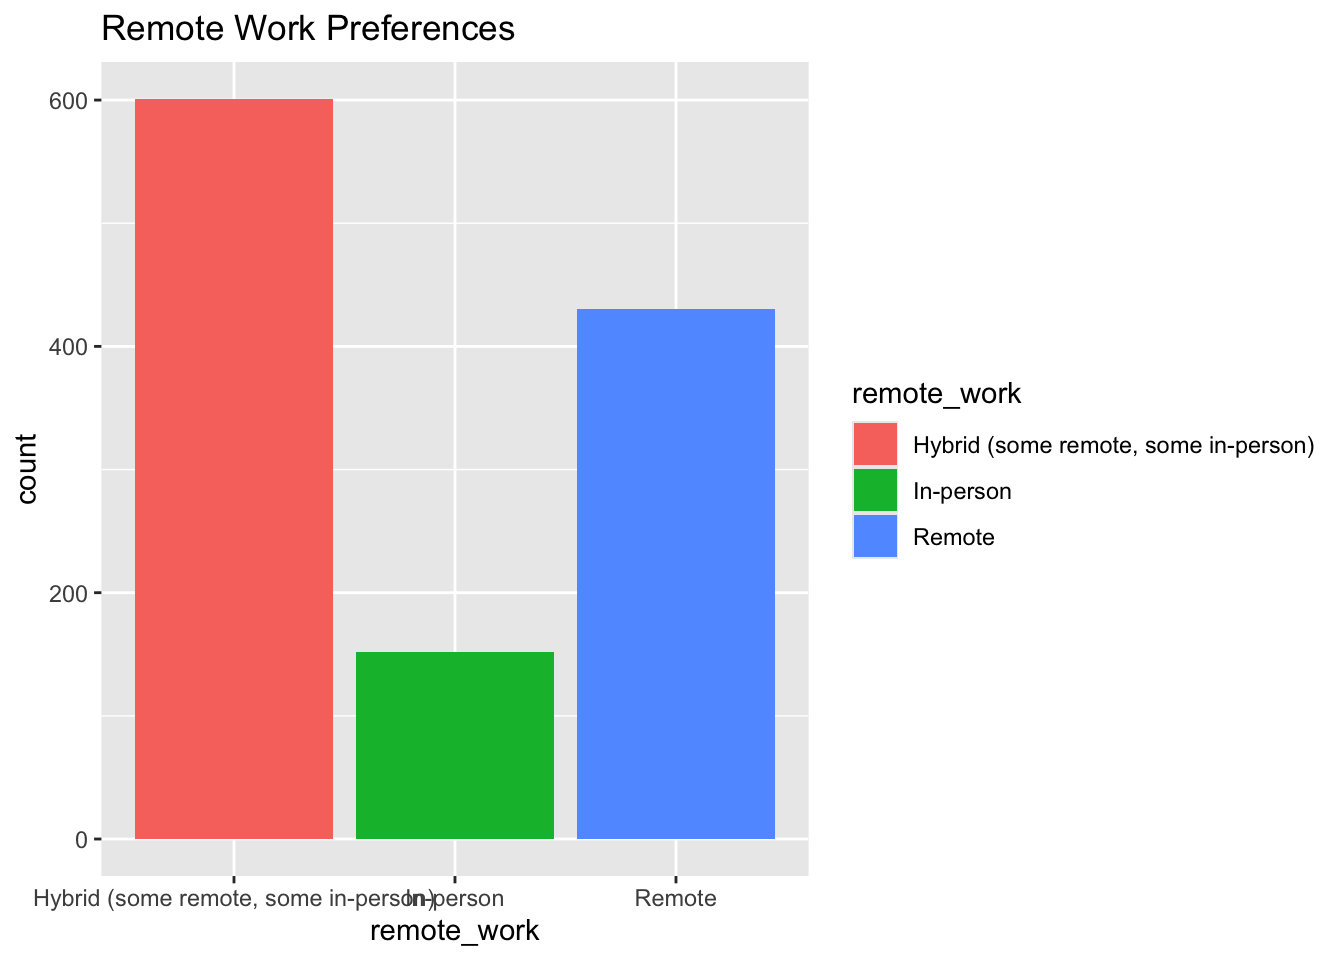
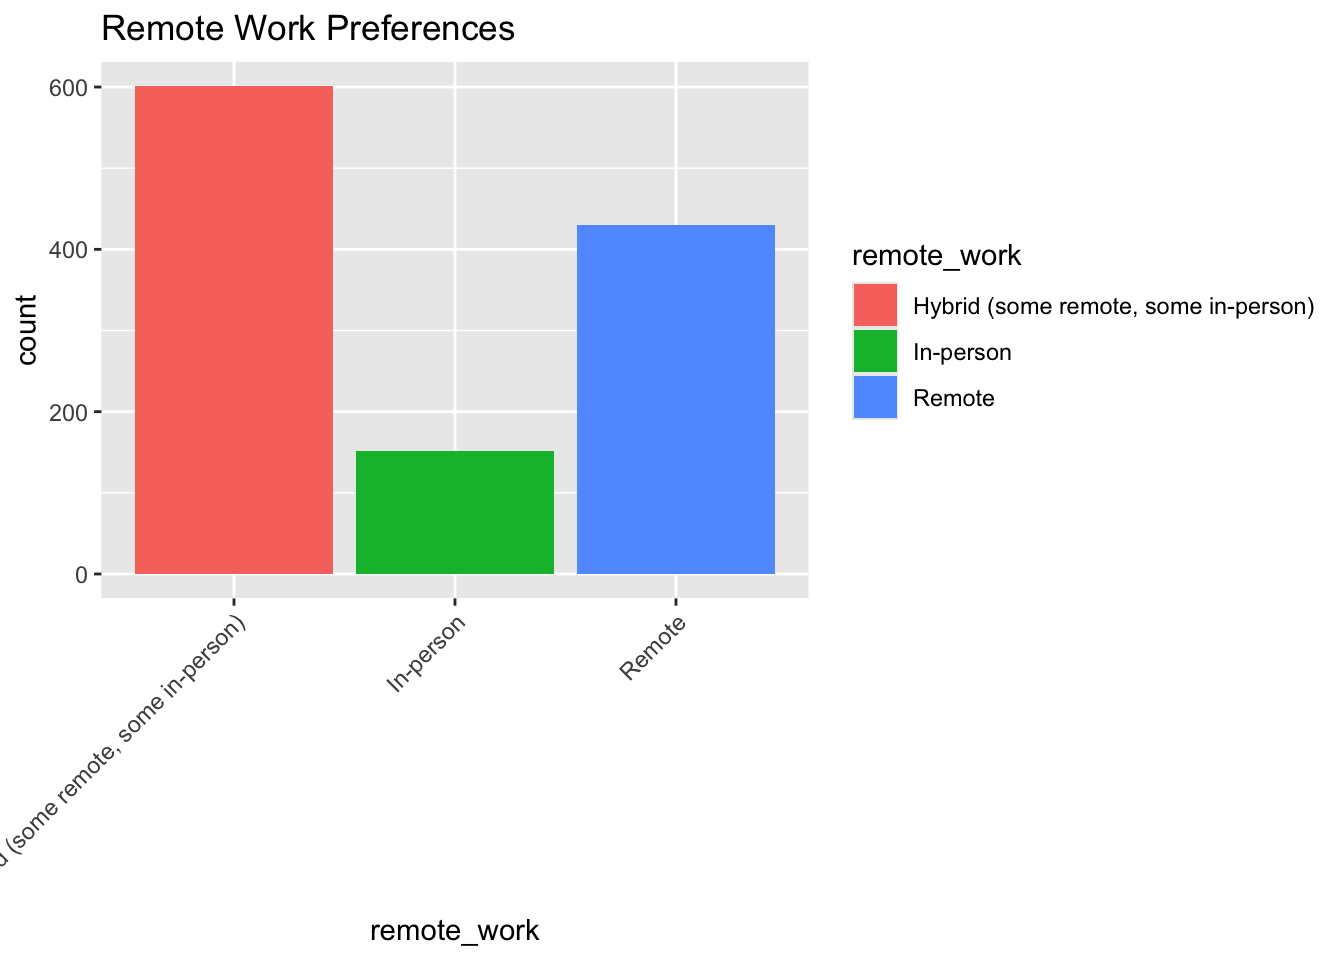
Updates to fix bar chart formatting

diff --git a/day1_exercise_answers.html b/day1_exercise_answers.html
@@ -460,7 +460,8 @@ $ survey_completion_date     &lt;date&gt; 2023-05-02, 2023-05-05, 2023-05-13, 20
 <div class="sourceCode cell-code" id="cb22"><pre class="sourceCode r code-with-copy"><code class="sourceCode r"><span id="cb22-1"><a href="#cb22-1" aria-hidden="true" tabindex="-1"></a><span class="co"># Bar chart of remote work preferences</span></span>
 <span id="cb22-2"><a href="#cb22-2" aria-hidden="true" tabindex="-1"></a><span class="fu">ggplot</span>(data_dev_survey, <span class="fu">aes</span>(<span class="at">x =</span> remote_work, <span class="at">fill =</span> remote_work)) <span class="sc">+</span></span>
 <span id="cb22-3"><a href="#cb22-3" aria-hidden="true" tabindex="-1"></a>  <span class="fu">geom_bar</span>() <span class="sc">+</span></span>
-<span id="cb22-4"><a href="#cb22-4" aria-hidden="true" tabindex="-1"></a>  <span class="fu">labs</span>(<span class="at">title =</span> <span class="st">"Remote Work Preferences"</span>)</span></code><button title="Copy to Clipboard" class="code-copy-button"><i class="bi"></i></button></pre></div>
+<span id="cb22-4"><a href="#cb22-4" aria-hidden="true" tabindex="-1"></a>  <span class="fu">labs</span>(<span class="at">title =</span> <span class="st">"Remote Work Preferences"</span>) <span class="sc">+</span></span>
+<span id="cb22-5"><a href="#cb22-5" aria-hidden="true" tabindex="-1"></a>  <span class="fu">theme</span>(<span class="at">axis.text.x =</span> <span class="fu">element_text</span>(<span class="at">angle =</span> <span class="dv">45</span>, <span class="at">hjust =</span> <span class="dv">1</span>))</span></code><button title="Copy to Clipboard" class="code-copy-button"><i class="bi"></i></button></pre></div>
 <div class="cell-output-display">
 <div>
 <figure class="figure">
@@ -569,17 +570,18 @@ $ survey_completion_date     &lt;date&gt; 2023-05-02, 2023-05-05, 2023-05-13, 20
 <section id="grouping-data-with-group_by" class="level3">
 <h3 class="anchored" data-anchor-id="grouping-data-with-group_by">21. Grouping Data with <code>group_by()</code></h3>
 <div class="cell">
-<div class="sourceCode cell-code" id="cb29"><pre class="sourceCode r code-with-copy"><code class="sourceCode r"><span id="cb29-1"><a href="#cb29-1" aria-hidden="true" tabindex="-1"></a><span class="fu">library</span>(knitr)</span>
-<span id="cb29-2"><a href="#cb29-2" aria-hidden="true" tabindex="-1"></a></span>
-<span id="cb29-3"><a href="#cb29-3" aria-hidden="true" tabindex="-1"></a><span class="co"># Group by remote_work and summarize the average salary </span></span>
-<span id="cb29-4"><a href="#cb29-4" aria-hidden="true" tabindex="-1"></a><span class="co"># and standard deviation of salary</span></span>
-<span id="cb29-5"><a href="#cb29-5" aria-hidden="true" tabindex="-1"></a>salary_by_remoteness <span class="ot">&lt;-</span> data_dev_survey <span class="sc">|&gt;</span> </span>
-<span id="cb29-6"><a href="#cb29-6" aria-hidden="true" tabindex="-1"></a>  <span class="fu">group_by</span>(remote_work) <span class="sc">|&gt;</span> </span>
-<span id="cb29-7"><a href="#cb29-7" aria-hidden="true" tabindex="-1"></a>  <span class="fu">summarize</span>(</span>
-<span id="cb29-8"><a href="#cb29-8" aria-hidden="true" tabindex="-1"></a>    <span class="at">avg_salary =</span> <span class="fu">mean</span>(converted_comp_yearly, <span class="at">na.rm =</span> <span class="cn">TRUE</span>),</span>
-<span id="cb29-9"><a href="#cb29-9" aria-hidden="true" tabindex="-1"></a>    <span class="at">std_salary =</span> <span class="fu">sd</span>(converted_comp_yearly, <span class="at">na.rm =</span> <span class="cn">TRUE</span>)</span>
-<span id="cb29-10"><a href="#cb29-10" aria-hidden="true" tabindex="-1"></a>  )</span>
-<span id="cb29-11"><a href="#cb29-11" aria-hidden="true" tabindex="-1"></a><span class="fu">kable</span>(salary_by_remoteness)</span></code><button title="Copy to Clipboard" class="code-copy-button"><i class="bi"></i></button></pre></div>
+<div class="sourceCode cell-code" id="cb29"><pre class="sourceCode r code-with-copy"><code class="sourceCode r"><span id="cb29-1"><a href="#cb29-1" aria-hidden="true" tabindex="-1"></a><span class="co"># Use kable() on your summarized data to make it look nice</span></span>
+<span id="cb29-2"><a href="#cb29-2" aria-hidden="true" tabindex="-1"></a><span class="fu">library</span>(knitr)</span>
+<span id="cb29-3"><a href="#cb29-3" aria-hidden="true" tabindex="-1"></a></span>
+<span id="cb29-4"><a href="#cb29-4" aria-hidden="true" tabindex="-1"></a><span class="co"># Group by remote_work and summarize the average salary </span></span>
+<span id="cb29-5"><a href="#cb29-5" aria-hidden="true" tabindex="-1"></a><span class="co"># and standard deviation of salary</span></span>
+<span id="cb29-6"><a href="#cb29-6" aria-hidden="true" tabindex="-1"></a>salary_by_remoteness <span class="ot">&lt;-</span> data_dev_survey <span class="sc">|&gt;</span> </span>
+<span id="cb29-7"><a href="#cb29-7" aria-hidden="true" tabindex="-1"></a>  <span class="fu">group_by</span>(remote_work) <span class="sc">|&gt;</span> </span>
+<span id="cb29-8"><a href="#cb29-8" aria-hidden="true" tabindex="-1"></a>  <span class="fu">summarize</span>(</span>
+<span id="cb29-9"><a href="#cb29-9" aria-hidden="true" tabindex="-1"></a>    <span class="at">avg_salary =</span> <span class="fu">mean</span>(converted_comp_yearly, <span class="at">na.rm =</span> <span class="cn">TRUE</span>),</span>
+<span id="cb29-10"><a href="#cb29-10" aria-hidden="true" tabindex="-1"></a>    <span class="at">std_salary =</span> <span class="fu">sd</span>(converted_comp_yearly, <span class="at">na.rm =</span> <span class="cn">TRUE</span>)</span>
+<span id="cb29-11"><a href="#cb29-11" aria-hidden="true" tabindex="-1"></a>  )</span>
+<span id="cb29-12"><a href="#cb29-12" aria-hidden="true" tabindex="-1"></a><span class="fu">kable</span>(salary_by_remoteness)</span></code><button title="Copy to Clipboard" class="code-copy-button"><i class="bi"></i></button></pre></div>
 <div class="cell-output-display">
 <table class="caption-top table table-sm table-striped small">
 <thead>
